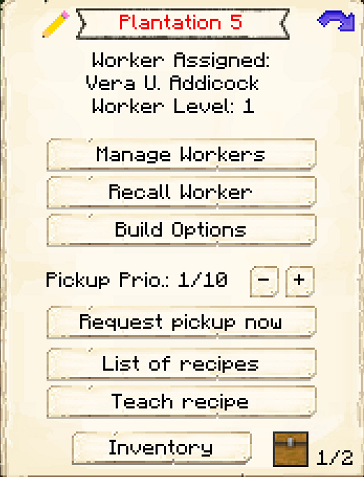
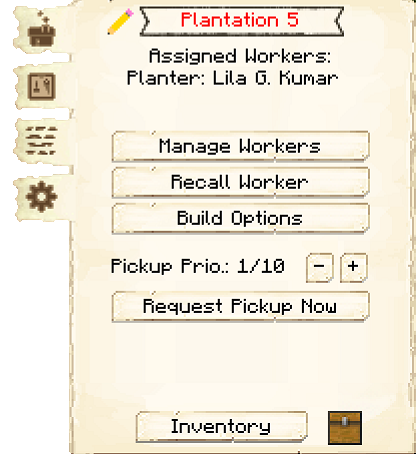
Plantation hut update (#795)
* Plantation hut update

* Update buildinginfo.yml

diff --git a/pages/src/source/buildings/plantation.md b/pages/src/source/buildings/plantation.md
@@ -39,25 +39,14 @@ The Planter can also craft paper, books, sugar, and anything made with bamboo. T
 
 ## Plantation GUI
 
-When accessing the Plantation's hut block by right-clicking on it, you will see a GUI with different options:
-
 <div class="row">
-  <div class="col-sm-12 col-md">
-    <img src="../../assets/images/gui/plantationgui1.png" class="img-fluid mx-auto" alt="Plantation GUI">
-  </div>
-  <div class="col-sm-12 col-md">
-    <br>
-    <ul>
-      {% for item in site.data.gui.global %}
-        <li><strong>{{ item.button }}:</strong> {{ item.content }}</li>
-      {% endfor %}
-    </ul>
+  <div class="col">
+    {% include contentblock/main-gui.html header="When accessing the Plantation hut block by right-clicking on it, you will see a GUI with different options. You start on the main tab:" image="../../assets/images/gui/plantationgui1.png" %}
+
+    {% include contentblock/basic.html header="The second tab of the GUI is <strong>Crafting Recipes</strong>." content="Here you can see all the crafting recipes this hut knows.  The arrows allow you to move them up or down in priority.  You are also able to disable specific recipes.<p><strong> Teach Recipe:</strong> When clicking teach recipe, it opens a crafting grid which allows you to teach this hut recipes (not the worker).</p>" image="../../assets/images/gui/plantationgui2.png" %}
+
+    {% include contentblock/basic.html header="The third tab of the GUI is <strong>Tasks</strong>." content="This tab shows you any requests the hut is working on, and where it is going." image="../../assets/images/gui/plantationgui3.png" %}
+
+    {% include contentblock/settings-gui.html key="plantation" header="The fourth tab of the GUI is <strong>Settings</strong>." image="../../assets/images/gui/plantationgui4.png" %}
   </div>
 </div>
-<br> <br>
-
-On page two of the GUI, you can select the plant you want the Planter to grow. Just click the button to cycle through sugar cane, bamboo, or cactus.
-
-**Note:** If you have completed the Double Trouble research in the [University](../../source/buildings/university) (which lets the Planter plant two crops at a time), this button will show *two* crops.
-
- <img src="../../assets/images/gui/plantationgui2.png" alt="Plantation GUI Page 2" />
